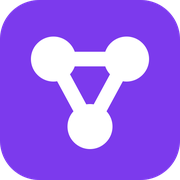
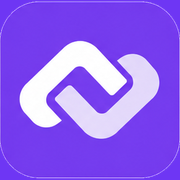
feat: брендбук v1.0 — кольори, логотип, фавікон

diff --git a/src/styles/variables.css b/src/styles/variables.css
@@ -1,20 +1,20 @@
 :root {
   --bg: #ffffff;
-  --bg-secondary: #f8f9fc;
+  --bg-secondary: #F4F3FA;
   --bg-tint: #f5f3ff;
-  --primary: #7C3AED;
-  --primary-hover: #6D28D9;
+  --primary: #6E36F4;
+  --primary-hover: #5A28D6;
   --primary-soft: #EDE9FE;
   --surface: #ffffff;
   --danger: #DC2626;
   --success: #16A34A;
-  --secondary: #0F172A;
-  --accent: #7C3AED;
-  --text: #0F172A;
+  --secondary: #191B21;
+  --accent: #6E36F4;
+  --text: #191B21;
   --text-muted: #64748B;
   --border: #E2E8F0;
   --glass-bg: rgba(255, 255, 255, 0.8);
-  --glass-border: rgba(124, 58, 237, 0.15);
+  --glass-border: rgba(110, 54, 244, 0.15);
   --glass-blur: blur(20px);
   /* Обидва шрифти мають кирилицю: Unbounded — заголовки, Manrope — увесь інший текст.
      До 2026-10 body стояв на Syne без кирилиці, тож український текст малювався
@@ -38,10 +38,10 @@
   --radius-pill: 999px;
 
   /* Shadows */
-  --shadow-card: 0 2px 16px rgba(15, 23, 42, 0.08), 0 1px 4px rgba(15, 23, 42, 0.04);
-  --shadow-elevated: 0 8px 32px rgba(15, 23, 42, 0.12), 0 2px 8px rgba(15, 23, 42, 0.06);
+  --shadow-card: 0 2px 16px rgba(25, 27, 33, 0.08), 0 1px 4px rgba(25, 27, 33, 0.04);
+  --shadow-elevated: 0 8px 32px rgba(25, 27, 33, 0.12), 0 2px 8px rgba(25, 27, 33, 0.06);
 
   /* Gradients */
-  --gradient-primary: linear-gradient(135deg, #7C3AED, #4F46E5);
-  --gradient-text: linear-gradient(135deg, #7C3AED, #4F46E5);
+  --gradient-primary: linear-gradient(135deg, #6E36F4, #4F46E5);
+  --gradient-text: linear-gradient(135deg, #6E36F4, #4F46E5);
 }

diff --git a/src/lib/structured-data.ts b/src/lib/structured-data.ts
@@ -6,7 +6,7 @@ export function getOrganizationSchema() {
     '@type': 'Organization',
     name: 'Neuronix',
     url: SITE_URL,
-    logo: `${SITE_URL}/favicon.svg`,
+    logo: `${SITE_URL}/icon-512.png`,
     contactPoint: {
       '@type': 'ContactPoint',
       contactType: 'sales',
@@ -25,7 +25,7 @@ export function getLocalBusinessSchema() {
     '@type': 'ProfessionalService',
     '@id': `${SITE_URL}#localbusiness`,
     name: 'Neuronix — розробка сайтів та автоматизація',
-    image: `${SITE_URL}/favicon.svg`,
+    image: `${SITE_URL}/icon-512.png`,
     url: SITE_URL,
     priceRange: '$$',
     telephone: '+380685026199',
@@ -79,7 +79,7 @@ export function getBlogPostingSchema(opts: {
     mainEntityOfPage: { '@type': 'WebPage', '@id': url },
     headline: opts.title,
     description: opts.description,
-    image: `${SITE_URL}/favicon.svg`,
+    image: `${SITE_URL}/icon-512.png`,
     keywords: opts.keywords.join(', '),
     datePublished: opts.publishedAt,
     dateModified: opts.updatedAt,
@@ -92,7 +92,7 @@ export function getBlogPostingSchema(opts: {
     publisher: {
       '@type': 'Organization',
       name: 'Neuronix',
-      logo: { '@type': 'ImageObject', url: `${SITE_URL}/favicon.svg` },
+      logo: { '@type': 'ImageObject', url: `${SITE_URL}/icon-512.png` },
     },
   }
 }

diff --git a/src/components/Footer.tsx b/src/components/Footer.tsx
@@ -3,6 +3,7 @@
 import { useTranslations } from 'next-intl'
 import { useLocale } from 'next-intl'
 import Link from 'next/link'
+import Image from 'next/image'
 import { sendGTMEvent } from '@next/third-parties/google'
 import { track } from '@/lib/analytics'
 import './css/Footer.css'
@@ -14,7 +15,14 @@ export default function Footer() {
   return (
     <footer className="footer">
       <div className="footer-inner">
-        <span className="footer-logo">NEURONIX</span>
+        {/* Інверсна версія — для темного фону (брендбук, розділ «Версії логотипу»). */}
+        <Image
+          className="footer-logo"
+          src="/brand/logo-inverse.webp"
+          alt="Neuronix"
+          width={700}
+          height={149}
+        />
         <nav className="footer-services">
           {/* Порядок = що ми продаємо. До 06.09 перелік починався з AI і назв платформ,
               тобто з нашої кухні, а не з того, по що людина прийшла. Розробка сайтів

diff --git a/src/components/Navbar.tsx b/src/components/Navbar.tsx
@@ -3,6 +3,7 @@
 import { useState, useEffect, useCallback } from 'react'
 import { useTranslations, useLocale } from 'next-intl'
 import Link from 'next/link'
+import Image from 'next/image'
 import { usePathname } from 'next/navigation'
 import LanguageSwitcher from './LanguageSwitcher'
 import './css/Navbar.css'
@@ -74,11 +75,11 @@ export default function Navbar() {
             мову — шукав навігацію. Link ще й робить елемент доступним з клавіатури. */}
         {isHome ? (
           <div className="navbar-logo" onClick={scrollToTop}>
-            NEURONIX
+            <Image src="/brand/logo.webp" alt="Neuronix" width={700} height={149} priority />
           </div>
         ) : (
-          <Link href={`/${locale}`} className="navbar-logo">
-            NEURONIX
+          <Link href={`/${locale}`} className="navbar-logo" aria-label="Neuronix">
+            <Image src="/brand/logo.webp" alt="Neuronix" width={700} height={149} priority />
           </Link>
         )}
 

diff --git a/src/app/[locale]/layout.tsx b/src/app/[locale]/layout.tsx
@@ -51,7 +51,7 @@ export const viewport: Viewport = {
   initialScale: 1,
   maximumScale: 5,
   viewportFit: 'cover',
-  themeColor: '#7C3AED',
+  themeColor: '#6E36F4',
 }
 
 export async function generateMetadata({ params }: Props): Promise<Metadata> {
@@ -106,7 +106,6 @@ export default async function LocaleLayout({
             404 — і Google малював сірий глобус замість знака. Тримаємо обидва плюс
             растрові розміри, кратні 48px, як радить довідка Google. */}
         <link rel="icon" href="/favicon.ico" sizes="any" />
-        <link rel="icon" type="image/svg+xml" href="/favicon.svg" />
         <link rel="icon" type="image/png" sizes="192x192" href="/icon-192.png" />
         <link rel="apple-touch-icon" href="/apple-touch-icon.png" />
         {schemas.map((schema, i) => (

diff --git a/src/components/css/Navbar.css b/src/components/css/Navbar.css
@@ -45,17 +45,20 @@
 
 .navbar.scrolled {
   border-bottom-color: var(--border);
-  box-shadow: 0 2px 16px rgba(15, 23, 42, 0.06);
+  box-shadow: 0 2px 16px rgba(25, 27, 33, 0.06);
 }
 
+/* Логотип за брендбуком (v1.0): мінімум 140px завширшки на екрані, без ефектів. */
 .navbar-logo {
-  font-family: var(--font-display);
-  font-weight: 800;
-  font-size: var(--fs-xl);
-  color: var(--text);
+  display: flex;
+  align-items: center;
   cursor: pointer;
-  letter-spacing: 0.05em;
   flex-shrink: 0;
+}
+
+.navbar-logo img {
+  height: 34px;
+  width: auto;
 }
 
 .navbar-links {
@@ -202,5 +205,5 @@
 }
 
 @media (max-width: 380px) {
-  .navbar-logo { font-size: var(--fs-lg); }
+  .navbar-logo img { height: 30px; }
 }

diff --git a/src/styles/global.css b/src/styles/global.css
@@ -17,7 +17,7 @@ html {
   -webkit-font-smoothing: antialiased;
   -moz-osx-font-smoothing: grayscale;
   -webkit-text-size-adjust: 100%;
-  -webkit-tap-highlight-color: rgba(124, 58, 237, 0.15);
+  -webkit-tap-highlight-color: rgba(110, 54, 244, 0.15);
   text-rendering: optimizeLegibility;
   height: 100%;
   overflow: hidden;
@@ -314,9 +314,9 @@ section .container {
 /* ===== Glow Text ===== */
 .glow-text {
   text-shadow:
-    0 0 10px rgba(124, 58, 237, 0.5),
-    0 0 30px rgba(124, 58, 237, 0.3),
-    0 0 60px rgba(124, 58, 237, 0.15);
+    0 0 10px rgba(110, 54, 244, 0.5),
+    0 0 30px rgba(110, 54, 244, 0.3),
+    0 0 60px rgba(110, 54, 244, 0.15);
 }
 
 /* ===== Mesh Background ===== */

diff --git a/src/components/css/Clients.css b/src/components/css/Clients.css
@@ -69,7 +69,7 @@
 
 .client-logo:hover,
 .client-logo:focus-visible {
-  border-color: rgba(124, 58, 237, 0.45);
+  border-color: rgba(110, 54, 244, 0.45);
   box-shadow: var(--shadow-elevated);
   transform: translateY(-2px);
 }
@@ -85,7 +85,7 @@
 }
 
 .client-logo:focus-visible {
-  outline: 3px solid rgba(124, 58, 237, 0.2);
+  outline: 3px solid rgba(110, 54, 244, 0.2);
   outline-offset: 3px;
 }
 

diff --git a/src/app/[locale]/opengraph-image.tsx b/src/app/[locale]/opengraph-image.tsx
@@ -18,7 +18,7 @@ export default function OpengraphImage() {
           flexDirection: 'column',
           justifyContent: 'center',
           padding: '0 90px',
-          background: 'linear-gradient(135deg, #7C3AED 0%, #4F46E5 100%)',
+          background: 'linear-gradient(135deg, #6E36F4 0%, #4F46E5 100%)',
           color: '#ffffff',
           fontFamily: 'sans-serif',
         }}

diff --git a/src/styles/effects.css b/src/styles/effects.css
@@ -126,7 +126,7 @@
 /* Magic UI «Animated Gradient Text» на ключовому слові в H1.               */
 
 .hero-title-highlight {
-  background: linear-gradient(100deg, #7C3AED, #4F46E5, #a78bfa, #7C3AED);
+  background: linear-gradient(100deg, #6E36F4, #4F46E5, #a78bfa, #6E36F4);
   background-size: 300% 100%;
   -webkit-background-clip: text;
   background-clip: text;

diff --git a/src/components/css/StickyCta.css b/src/components/css/StickyCta.css
@@ -17,7 +17,7 @@
        reason Navbar drops its blur below 900px (386d95d). */
     background: var(--surface);
     border-top: 1px solid var(--border);
-    box-shadow: 0 -2px 16px rgba(15, 23, 42, 0.08);
+    box-shadow: 0 -2px 16px rgba(25, 27, 33, 0.08);
     transform: translateY(110%);
     transition: transform 0.25s ease;
     will-change: transform;

diff --git a/src/components/AnimatedBackground.tsx b/src/components/AnimatedBackground.tsx
@@ -12,7 +12,7 @@ interface Particle {
 }
 
 const SPEED = 0.28
-const RGB = '124, 58, 237' // #7C3AED
+const RGB = '110, 54, 244' // #6E36F4
 
 export default function AnimatedBackground() {
   const canvasRef = useRef<HTMLCanvasElement>(null)
